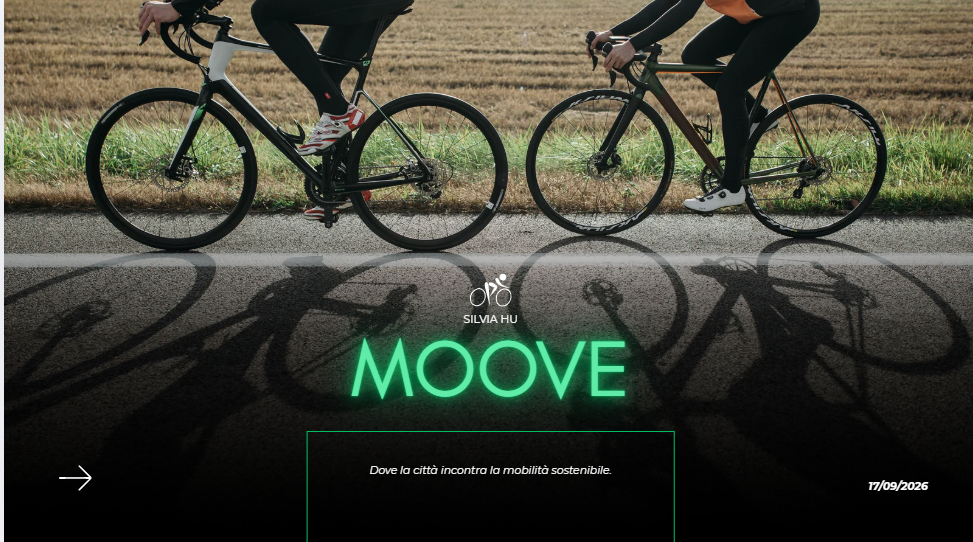
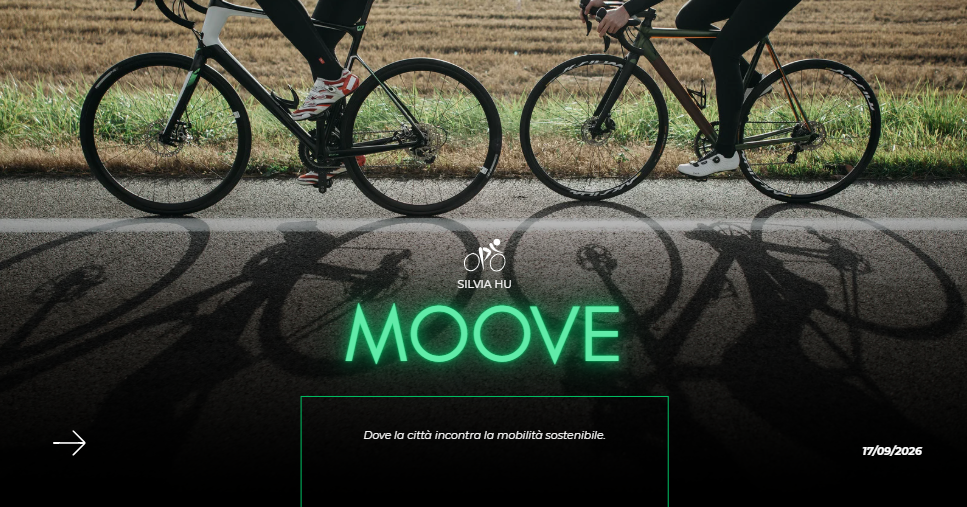
dettagli project, cv, nuove immagini

diff --git a/assets/css/style.css b/assets/css/style.css
@@ -216,6 +216,7 @@ main {
 }
 .project-item > a:first-child img {
   width: 100%;
+  height: 100%;
   aspect-ratio: 16/10;
   border-radius: 8px;
   object-fit: cover;
@@ -229,7 +230,19 @@ main {
 .project-item p {
   color: #94a3b8;
 }
-
+.project-tecnique li{
+  display: flex;
+  flex-wrap: wrap;
+  gap: 8px 12px;
+  padding-left: 0;
+  list-style: none;
+  padding: 4px 10.4px;
+  border-radius: 999px;
+  margin: 0;
+  background: #e5edff;
+  color: #1e3a8a;
+  box-sizing: content-box;
+}
 a.btn,
 .btn-contactme {
   display: inline-block;
@@ -371,6 +384,11 @@ footer .footer-bottom {
     transition-duration: 0.01ms !important;
   }
 }
+.cv-experience{border-bottom: 1px solid #d8e0eb}
+.cv-skills{border-bottom: 1px solid #d8e0eb}
+.cv-introduction{border-bottom: 1px solid #d8e0eb}
+.cv-language{border-bottom: 1px solid #d8e0eb}
+.cv-education{border-bottom: 1px solid #d8e0eb}
 .cv-experience .experience-item {
   margin-bottom: 32px;
   padding-bottom: 24px;
@@ -380,7 +398,7 @@ footer .footer-bottom {
   margin: 0 0 4px;
   color: #1e3a8a;
 }
-.cv-experience .experience-item .data {
+.data {
   display: inline-block;
   margin: 0 0 8px;
   padding: 4px 10.4px;
@@ -403,11 +421,11 @@ footer .footer-bottom {
 }
 .cv-skills ul li {
   padding: 4px 10.4px;
-    border-radius: 999px;
-    margin: 0;
-    background: #e5edff;
-    color: #1e3a8a;
-    box-sizing: content-box;
+  border-radius: 999px;
+  margin: 0;
+  background: #e5edff;
+  color: #1e3a8a;
+  box-sizing: content-box;
 }
 .cv-skills ul li.hover-effect:hover {
   transition: background-color 0.2s ease, color 0.2s ease;
@@ -421,5 +439,4 @@ footer .footer-bottom {
   border-radius: 50%;
   overflow: hidden;
 }
-cv
 /*# sourceMappingURL=style.css.map */

diff --git a/progetti.html b/progetti.html
@@ -42,12 +42,22 @@
                 <img src="assets/image/hotelpomelia.png" alt="immagine presentazione Progetto Hotel Pomelia">
                 <h3>Hotel Pomelia</h3>
                 <p>Il mio primo progetto di sviluppo web con l'uso di HTML e CSS.</p>
+                <ul class="project-tecnique">
+                    <li>HTML5</li>
+                    <li>CSS</li>
+                    <li>Bootstrap 5.3</li>
+                </ul>
                 <a href="https://yatomon96.github.io/HotelPomeliaSrl/" target="_blank" class="btn">Visita il sito</a>
             </div>
             <div class="project-item">
                 <img src="assets/image/mooveproject.png" alt=" immagine presentazione Progetto Moove-mobilità sostenibile">
                 <h3>Moove - mobilità sostenibile</h3>
                 <p>Un progetto di sviluppo web per promuovere la mobilità sostenibile.</p>
+                <ul class="project-tecnique">
+                    <li>Pseudocodice</li>
+                    <li>Tavola di verità</li>
+                    <li>Flowchart</li>
+                </ul>
                 <a href="https://github.com/yatomon96/ProgettoMoove-" target="_blank" class="btn">Visualizza su github</a>
             </div>
         </div>

diff --git a/assets/sass/style.scss b/assets/sass/style.scss
@@ -188,7 +188,6 @@ main {
 .hero-content-projects {
   width: min(100%, 760px);
   padding: clamp(24px, 5vw, 48px);
-  padding: 0;
   border: 0;
   background: transparent;
   text-align: left;
@@ -436,6 +435,13 @@ footer {
     transition-duration: 0.01ms !important;
   }
 }
+.cv-education,
+.cv-experience,
+.cv-introduction,
+.cv-skills,
+.cv-language{
+  border-bottom: 1px solid $color-border;
+}
 .cv-experience {
   .experience-item {
     margin-bottom: 32px;
@@ -446,7 +452,13 @@ footer {
       margin: 0 0 4px;
       color: $color-primary;
     }
-    .data {
+    p {
+      margin: 4px 0 0;
+      color: $color-muted;
+    }
+  }
+}
+.data {
       display: inline-block;
       margin: 0 0 8px;
       padding: 4px 10.4px;
@@ -456,13 +468,6 @@ footer {
       font-size: 14.4px;
       font-weight: 700;
     }
-    p {
-      margin: 4px 0 0;
-      color: $color-muted;
-    }
-  }
-}
-
 .skills ul {
   display: flex;
   flex-wrap: wrap;
@@ -492,8 +497,4 @@ footer {
   height: 150px;
   border-radius: 50%;
   overflow: hidden;
-}
-.cv-introduction,
-.cv-education {
-  border-bottom: 1px solid $color-border
 }

diff --git a/curriculum.html b/curriculum.html
@@ -51,11 +51,11 @@
         <h2>Istruzione</h2>
             <h3>Diploma di maturità</h3>
             <p>Istituto Tecnico Commerciale Schiapparelli - Gramsci, Milano</p>
-            <p>Anno di conseguimento: 2010-2015</p>
+            <p class="data">Anno di conseguimento: 2010-2015</p>
             <p>Specializzazione: Amministrazione, finanza e marketing - Sistemi Informatici Aziendali</p>
             <h3>Corso di formazione in sviluppo web</h3>
             <p>Start2impact - Milano</p>
-            <p>Anno di conseguimento: Giugno 2026 - in corso</p>
+            <p class="data">Anno di conseguimento: Giugno 2026 - in corso</p>
             <p>Specializzazione: Full Stack Development</p>
         </div>
         
@@ -80,7 +80,6 @@
             <li>Git/GitHub</li>
             <li>Visual Studio Code</li>
             <li>AI(Intelligenza Artificiale)</li>
-
         </ul>
         </div>
         <div class="cv-experience">
